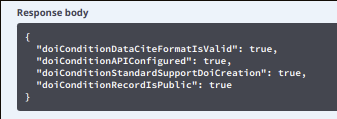
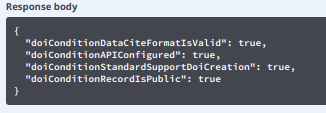
DOI / Image border fix.

Changed region(s): [[0.0, 0.0, 1.0, 0.9292], [0.0613, 0.9292, 1.0, 0.9558]]

diff --git a/source/user-guide/associating-resources/doi.rst b/source/user-guide/associating-resources/doi.rst
@@ -59,7 +59,7 @@ See http://schema.datacite.org/meta/kernel-4.1/doc/DataCite-MetadataKernel_v4.1.
 
 A DOI may already be assigned for a record:
 
-.. figure:: img/doi-api-check-already-exist.png.png
+.. figure:: img/doi-api-check-already-exist.png
 
 In such case the DOI needs to be removed first.
 
